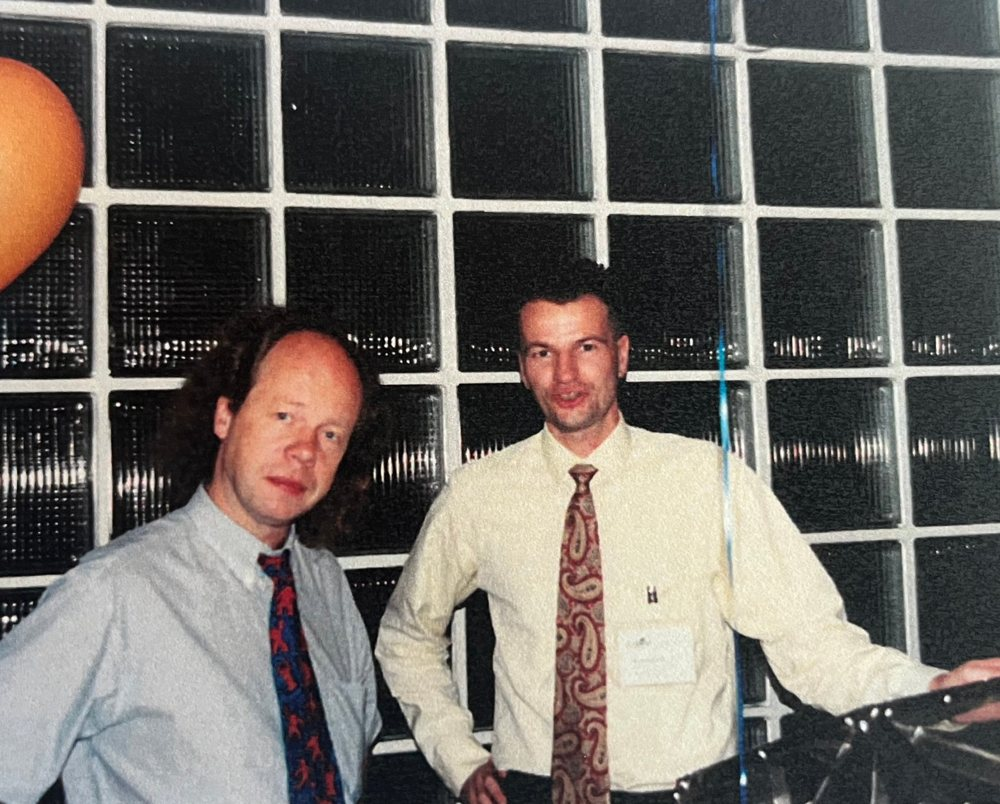
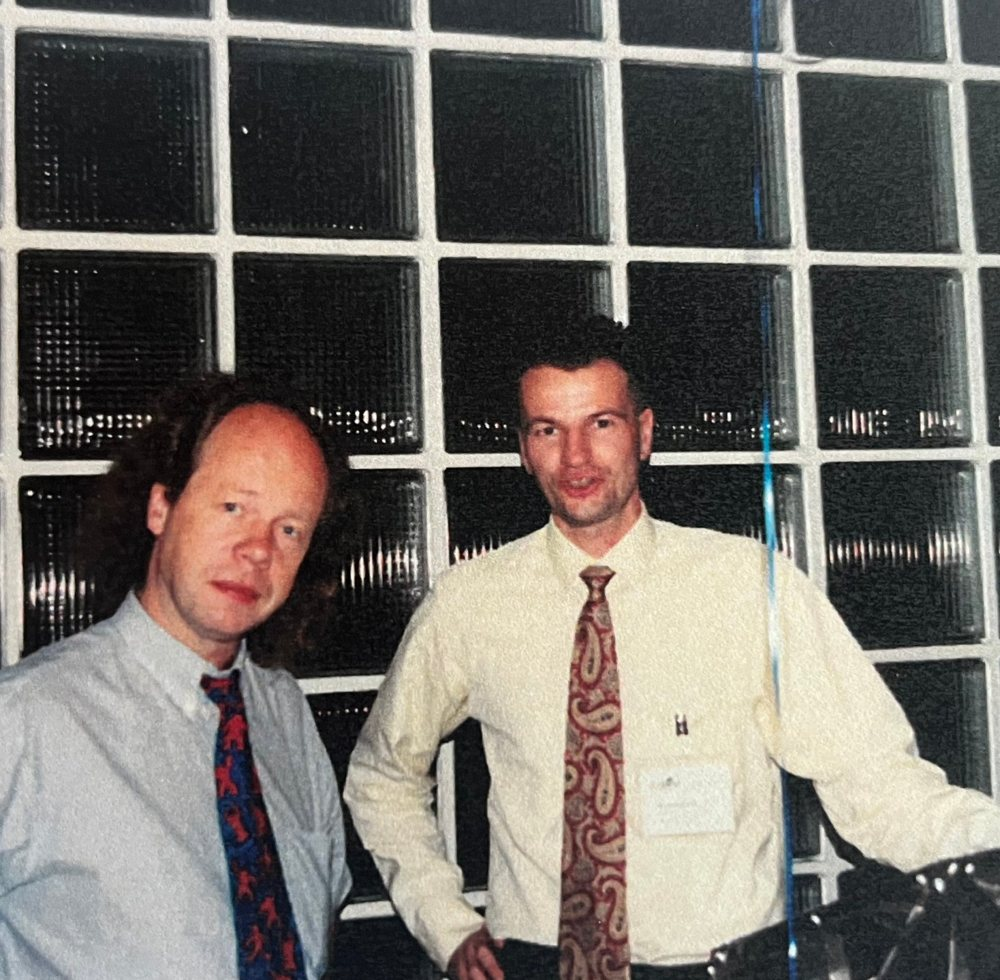
Papas Anmerkungen: Fallbeispiele ALDI/FRED/DERTOUR, 1994 zugeschnitten, 2015 mit Buch und Text
Claude-Session: https://claude.ai/code/session_01ESu8zuULvguVg3cWirSz4a

diff --git a/index.html b/index.html
@@ -161,6 +161,7 @@ header.scrolled{border-bottom-color:var(--line)}
 .tl-card.land img{aspect-ratio:auto}
 .tl-card figure.duo{display:grid; grid-template-columns:2.3fr 1fr; gap:12px; align-items:center}
 .tl-card figure.duo figcaption{grid-column:1/-1}
+.tl-card figure.duo img.free{border-radius:0; filter:none}
 .tl-card > *{min-width:0}
 .tl-card .y{font-size:clamp(48px,7vw,84px); font-weight:300; line-height:1; letter-spacing:-.03em; color:var(--brass); font-variant-numeric:tabular-nums}
 .tl-card h3{font-size:clamp(22px,2.6vw,30px); margin-top:14px}
@@ -473,30 +474,38 @@ footer a:hover{color:var(--ink)}
         <div class="cases-head">
           <p class="cases-label">Fallbeispiele</p>
           <div class="case-nav">
-            <span class="case-count" id="case-count" aria-live="polite">01 / 02</span>
+            <span class="case-count" id="case-count" aria-live="polite">01 / 03</span>
             <button type="button" id="case-prev" aria-label="Vorheriges Beispiel">←</button>
             <button type="button" id="case-next" aria-label="Nächstes Beispiel">→</button>
           </div>
         </div>
         <div class="case-track" id="case-track" tabindex="0">
-          <article class="case" aria-roledescription="Folie" aria-label="1 von 2">
-            <figure><img src="img/fred-app.jpg" alt="Startansicht der Radreise-App FRED von Donau Touristik mit persönlicher Reise und Tagesroute" width="637" height="598" loading="lazy"></figure>
-            <div class="case-body">
-              <p class="case-kicker">Donau Touristik · Radreise-App „FRED“</p>
-              <b class="case-num"><span class="count" data-to="50000" data-suffix="+">50.000+</span></b>
-              <p class="case-text">Auslieferungen der Radreise-App „FRED“ an die Donau Touristik GmbH, von der TourCont AG entwickelt und von mir mitgestaltet.</p>
-            </div>
-          </article>
-          <article class="case" aria-roledescription="Folie" aria-label="2 von 2">
+          <article class="case" aria-roledescription="Folie" aria-label="1 von 3">
             <figure><img src="img/go-vista.jpg" alt="Drei Go-Vista-Reiseführer Hamburg, Portugal und Paris, jeweils mit dem Hinweis inklusive Travel-App" width="960" height="887" loading="lazy"></figure>
             <div class="case-body">
               <p class="case-kicker">ALDI SÜD · Go Vista Travel-App</p>
-              <b class="case-num"><span class="count" data-to="200000" data-suffix="+">200.000+</span></b>
-              <p class="case-text">Auslieferungen der Go Vista Travel-App an ALDI SÜD, ebenfalls von der TourCont AG.</p>
+              <b class="case-num"><span class="count" data-to="250000" data-suffix="+">250.000+</span></b>
+              <p class="case-text">Auslieferungen der Go Vista Travel-App an ALDI SÜD, entwickelt von der TourCont AG.</p>
+            </div>
+          </article>
+          <article class="case" aria-roledescription="Folie" aria-label="2 von 3">
+            <figure><img src="img/fred-app.jpg" alt="Startansicht der Radreise-App FRED von Donau Touristik mit persönlicher Reise und Tagesroute" width="637" height="598" loading="lazy"></figure>
+            <div class="case-body">
+              <p class="case-kicker">Donau Touristik · Radreise-App „FRED“</p>
+              <b class="case-num"><span class="count" data-to="40000" data-suffix="+">40.000+</span></b>
+              <p class="case-text">Auslieferungen der Radreise-App „FRED“ an die Donau Touristik GmbH, von der TourCont AG entwickelt und von mir mitgestaltet.</p>
+            </div>
+          </article>
+          <article class="case" aria-roledescription="Folie" aria-label="3 von 3">
+            <figure><img src="img/dertour-katalog.jpg" alt="Doppelseite aus einem DERTOUR-Katalog mit Rundreisen und dem Hinweis auf 1000 Places to see before you die" width="1365" height="965" loading="lazy" style="object-position:100% 50%"></figure>
+            <div class="case-body">
+              <p class="case-kicker">DERTOUR · Konzept „Travel the book“</p>
+              <b class="case-num">ca. <span class="count" data-to="20" data-suffix=" Mio.">20 Mio.</span></b>
+              <p class="case-text">Medienkontakte für 70 Touren in Europa und fernen Ländern mit Inhalten aus „1000 Places to see …“. Präsentiert in 20 DERTOUR-Katalogen mit rund 15 Millionen Auflage, unter Einbindung der Expedienten in rund 1.000 Reisebüros und mit einem Gewinnspiel.</p>
             </div>
           </article>
         </div>
-        <div class="case-dots" id="case-dots" aria-hidden="true"><span class="on"></span><span></span></div>
+        <div class="case-dots" id="case-dots" aria-hidden="true"><span class="on"></span><span></span><span></span></div>
       </div>
       <p class="indep">ABS Beratung ist unabhängig. Ich empfehle die Lösung, die zu Ihrem Unternehmen passt.</p>
     </div>
@@ -713,8 +722,8 @@ footer a:hover{color:var(--ink)}
     {y:'1972', img:'img/tl-1972.jpg', cap:'', alt:'Schwarzweißfoto aus der DuMont-Zeit, frühe 1970er Jahre', t:'DuMont Buchverlag', p:'Ausbildung zum Verlagshersteller, danach Kunstbuch- und internationale Katalogproduktionen. Künstler-Begegnungen mit Max Ernst, Viktor Vasarely, Gerhard Richter u. v. a. Ab 1980 Herausgeber der Reihe „Richtig Reisen“.'},
     {y:'1977', img:'img/tl-1977.jpg', pos:'50% 40%', cap:'', alt:'Schwarzweißfoto: drei Personen bei der Arbeit an einem Schreibtisch voller Fotos und Manuskripte in einem Verlagsbüro', t:'Gründung des Vista Point Verlages', p:'Gemeinsam mit Gudrun Wasmuth und Horst Schmidt-Brümmer in Köln gegründet. Erste Publikation: „Frauenkunst USA“.'},
     {y:'1988', img:'img/tl-1988.jpg', fit:'contain', cap:'„Südwesten USA“ von Horst Schmidt-Brümmer und Karl Teuschl, Vista Point Reisen', alt:'Titel des Reiseführers Südwesten USA von Vista Point Reisen', t:'Eigene Reiseführerreihe', p:'Farbfotos und detaillierte Routenplanung, erstmals im Vierfarbdruck in Deutschland. Der wirtschaftliche Durchbruch im Buchhandel.'},
-    {y:'1994', img:'img/tl-1994.jpg', img2:'img/tl-1994-dertour.jpg', alt2:'DERTOUR-Dekoplakat Weltenbummler aufgepasst: Die schönsten Sehnsuchtsorte aus dem Bestseller 1000 Places to see, mit Reiseangeboten und dem Buch', land:true, cap:'Rechts: DERTOUR-Deko mit Reisen aus „1000 Places to see …“', alt:'Farbfoto aus den 1990er Jahren: Andreas Schulz mit einem Gesprächspartner vor einer Glasbausteinwand', t:'Partner von DERTOUR', p:'Erster Kontakt auf der ITB, daraus über 23 Jahre Premium-Partnerschaft. „Travel the book“ lief in 23 Katalogen.'},
-    {y:'2015', img:'img/tl-2015.jpg', pos:'50% 35%', cap:'', alt:'Andreas Schulz mit zwei Gesprächspartnerinnen', t:'1000 Places to see before you die', p:'Der Weltbestseller kommt zu Vista Point. Über drei Millionen verkaufte Exemplare im deutschsprachigen Raum.'},
+    {y:'1994', img:'img/tl-1994.jpg', img2:'img/tl-1994-dertour.jpg', cols:'1.9fr 1fr', alt2:'DERTOUR-Dekoplakat Weltenbummler aufgepasst: Die schönsten Sehnsuchtsorte aus dem Bestseller 1000 Places to see, mit Reiseangeboten und dem Buch', land:true, cap:'Rechts: DERTOUR-Deko mit Reisen aus „1000 Places to see …“', alt:'Farbfoto aus den 1990er Jahren: Andreas Schulz mit einem Gesprächspartner vor einer Glasbausteinwand', t:'Partner von DERTOUR', p:'Erster Kontakt auf der ITB, daraus über 23 Jahre Premium-Partnerschaft. „Travel the book“ lief in 23 Katalogen.'},
+    {y:'2015', img:'img/tl-2015.jpg', img2:'img/tl-2015-buch.jpg', img2left:true, cols:'0.68fr 1fr', land:true, cap:'', alt:'Andreas Schulz in New York mit der Autorin Patricia Schultz und der Verlegerin Carolan Workman', alt2:'Buch 1000 Places To See Before You Die, deutsche Ausgabe bei Vista Point', t:'1000 Places to see before you die', p:'Der Weltbestseller kommt zu Vista Point. Über drei Millionen verkaufte Exemplare im deutschsprachigen Raum. Mit der Autorin Patricia Schultz und der Verlegerin Carolan Workman in New York.'},
     {y:'2020', img:'img/tl-2020.jpg', land:true, cap:'', alt:'Farbfoto: Andreas Schulz und drei Partner stoßen an einem gedeckten Tisch mit Sekt an', t:'TourCont AG', p:'Gründung in München mit Markus Schreiber und Klaus Weise, Kollegen aus der Softwareentwicklung. Digitalisierte Verlagsinhalte fließen direkt in Reise-Apps wie „FRED“ von Donau Touristik.'},
     {y:'Heute', img:'img/tl-heute.jpg', cap:'', alt:'Grafik: 1000 Places To See Before You Die Deutschland und Reise-App, verbunden mit einem Pfeil, Vom Buch in die App', t:'ABS Beratung', p:'Strategische Beratung für Verlage, Reiseunternehmen und Technologiepartner.'}
   ];
@@ -738,7 +747,7 @@ footer a:hover{color:var(--ink)}
     btns.forEach(function(b, j){ b.setAttribute('aria-selected', j === k ? 'true' : 'false'); b.tabIndex = j === k ? 0 : -1; b.classList.toggle('done', j < k); });
     var bb = btns[k]; fill.style.width = (bb.offsetLeft + 8) + 'px';
     card.className = 'tl-card' + (st.img ? (st.land ? ' land' : '') : ' noimg'); card.setAttribute('aria-labelledby', bb.id);
-    card.innerHTML = '<div><div class="y">' + st.y + '</div><h3>' + st.t + '</h3><p>' + st.p + '</p></div>' + (st.img ? '<figure' + (st.fit === 'contain' ? ' class="contain"' : (st.img2 ? ' class="duo"' : '')) + '><img src="' + st.img + '"' + (st.pos ? ' style="object-position:' + st.pos + '"' : '') + ' alt="' + st.alt + '" width="800" height="1000">' + (st.img2 ? '<img src="' + st.img2 + '" alt="' + st.alt2 + '" width="696" height="1300">' : '') + (st.cap ? '<figcaption>' + st.cap + '</figcaption>' : '') + '</figure>' : '');
+    card.innerHTML = '<div><div class="y">' + st.y + '</div><h3>' + st.t + '</h3><p>' + st.p + '</p></div>' + (st.img ? '<figure' + (st.fit === 'contain' ? ' class="contain"' : (st.img2 ? ' class="duo" style="grid-template-columns:' + st.cols + '"' : '')) + '>' + (function(){ var a = '<img src="' + st.img + '"' + (st.pos ? ' style="object-position:' + st.pos + '"' : '') + ' alt="' + st.alt + '" width="800" height="1000">', b = st.img2 ? '<img class="' + (st.img2left ? 'free' : '') + '" src="' + st.img2 + '" alt="' + st.alt2 + '" width="696" height="1300">' : ''; return st.img2left ? b + a : a + b; })() + (st.cap ? '<figcaption>' + st.cap + '</figcaption>' : '') + '</figure>' : '');
     void card.offsetWidth; card.classList.add('swap');
     prev.disabled = k === 0; next.disabled = k === stations.length - 1;
     var sl = bb.offsetLeft - parseFloat(getComputedStyle(yearsEl).paddingLeft || 0); if (yearsEl.scrollWidth > yearsEl.clientWidth) yearsEl.scrollTo({left: sl, behavior: reduce ? 'auto' : 'smooth'});
